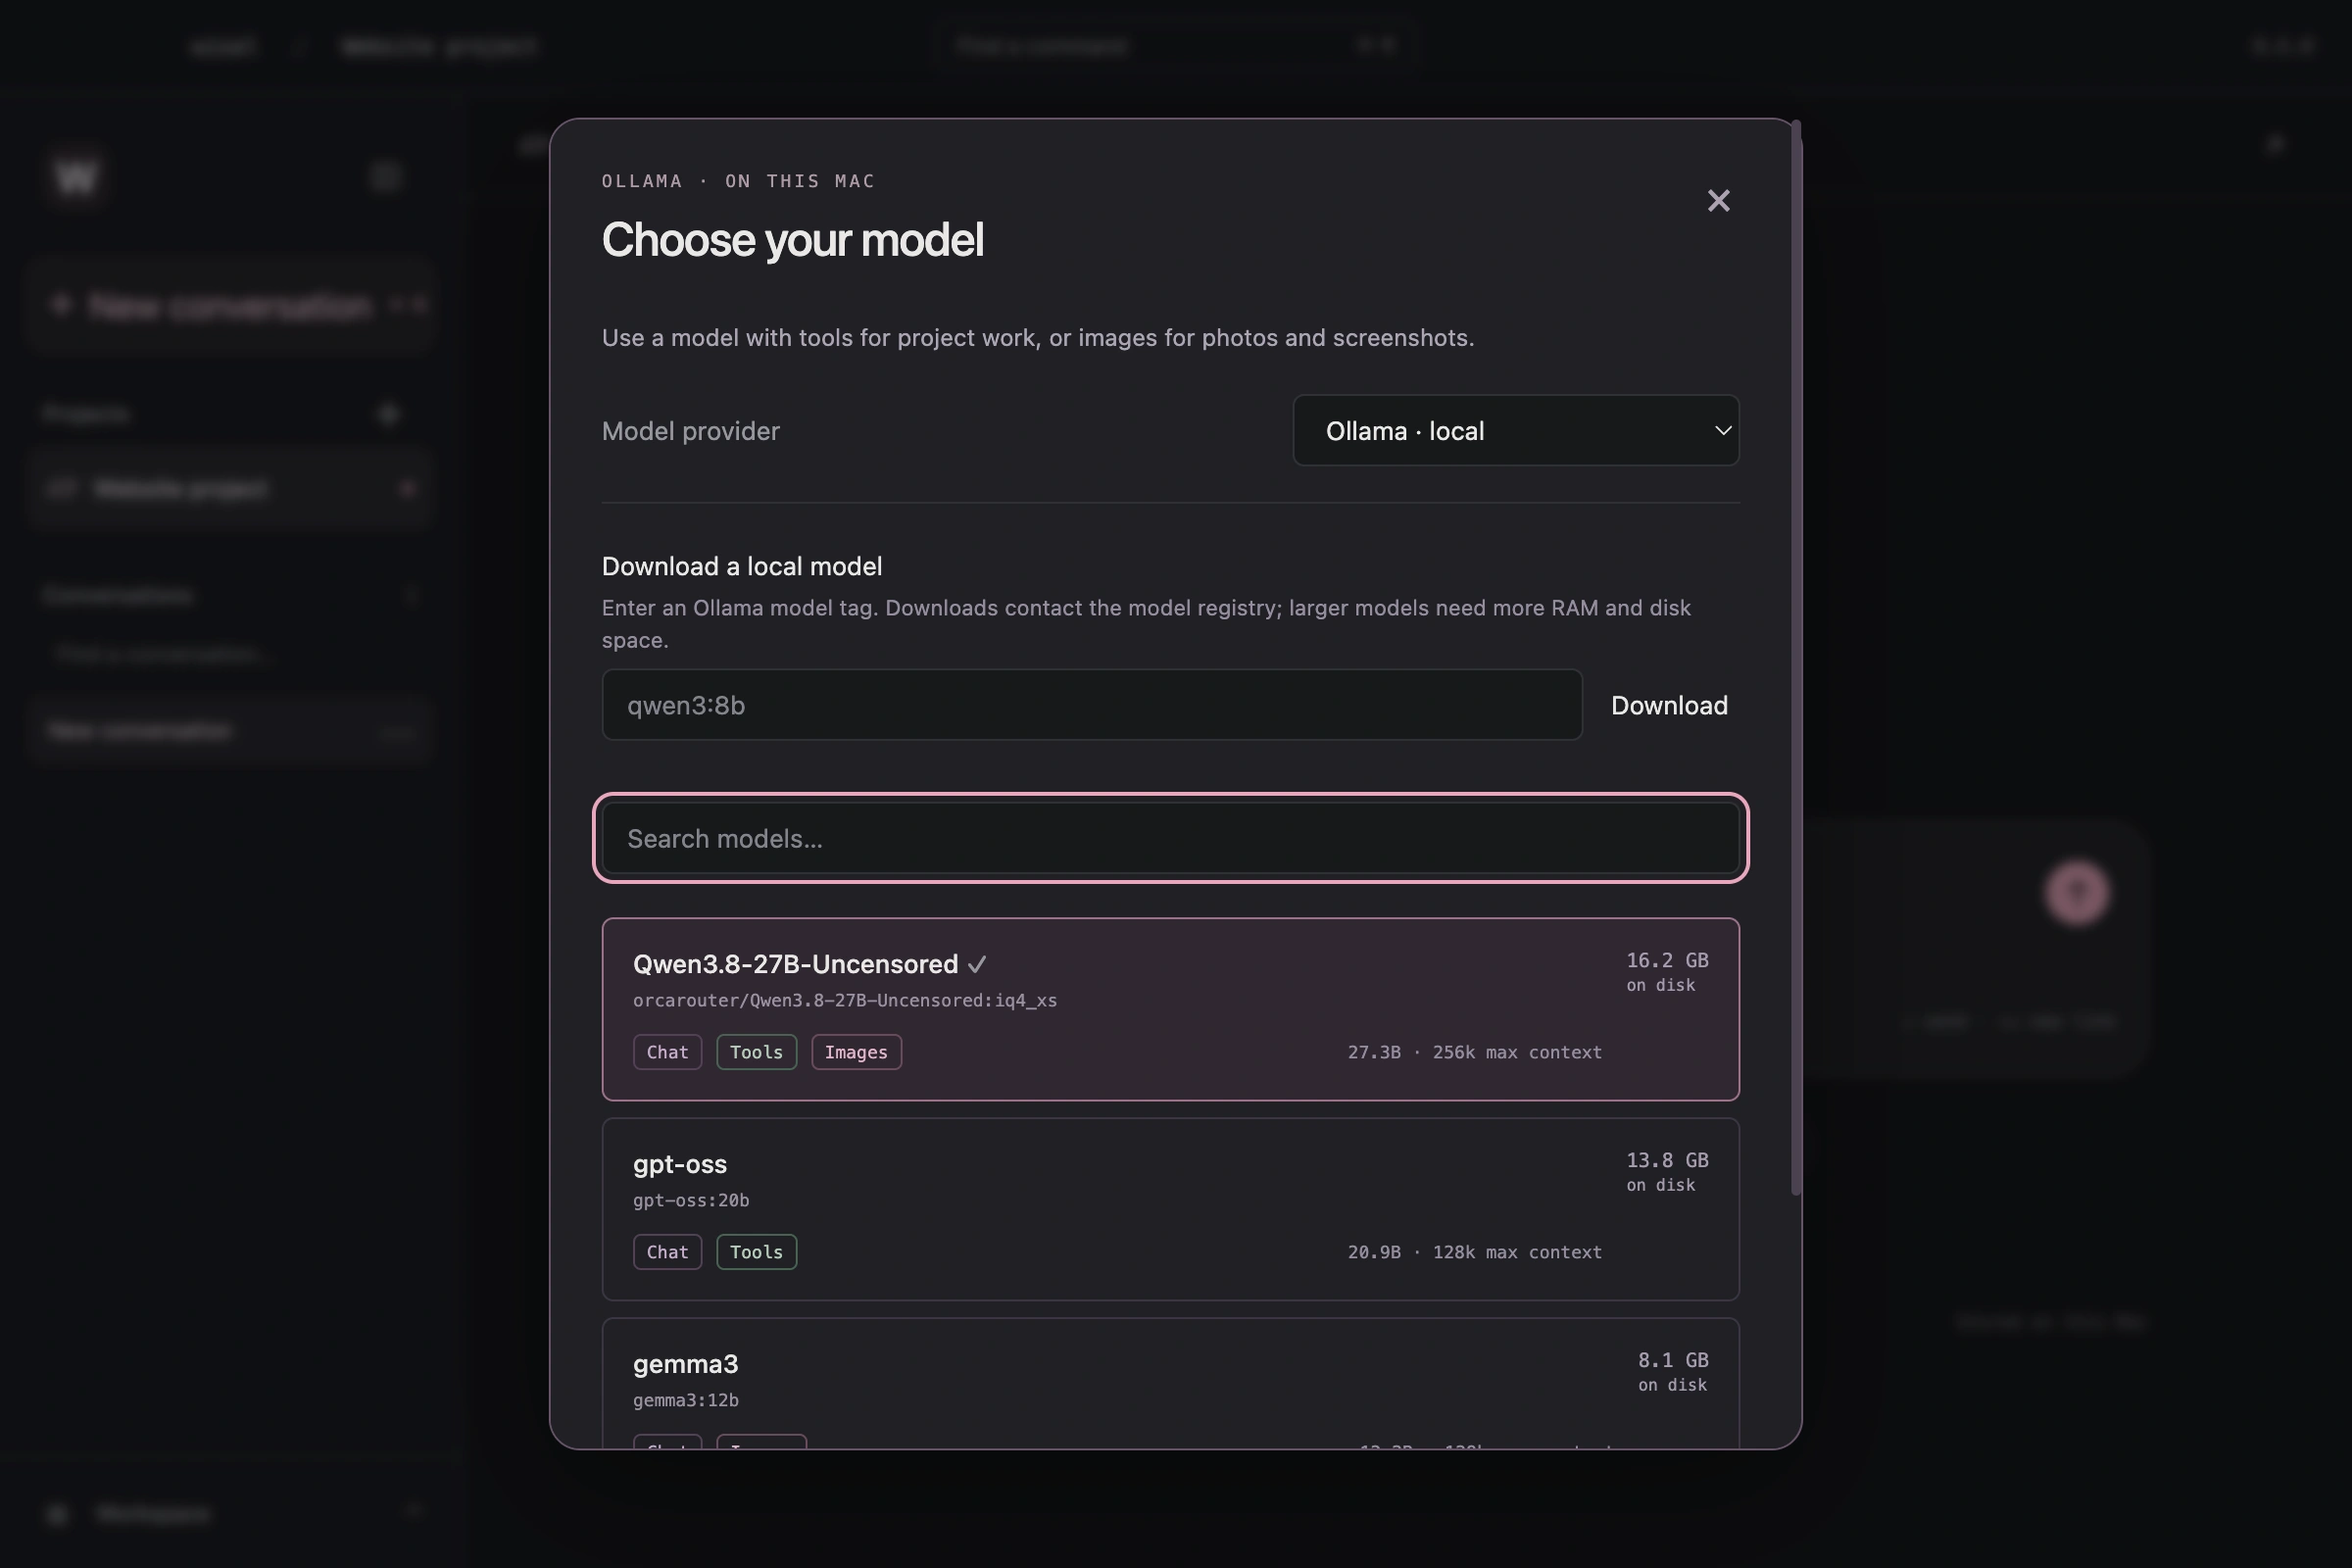
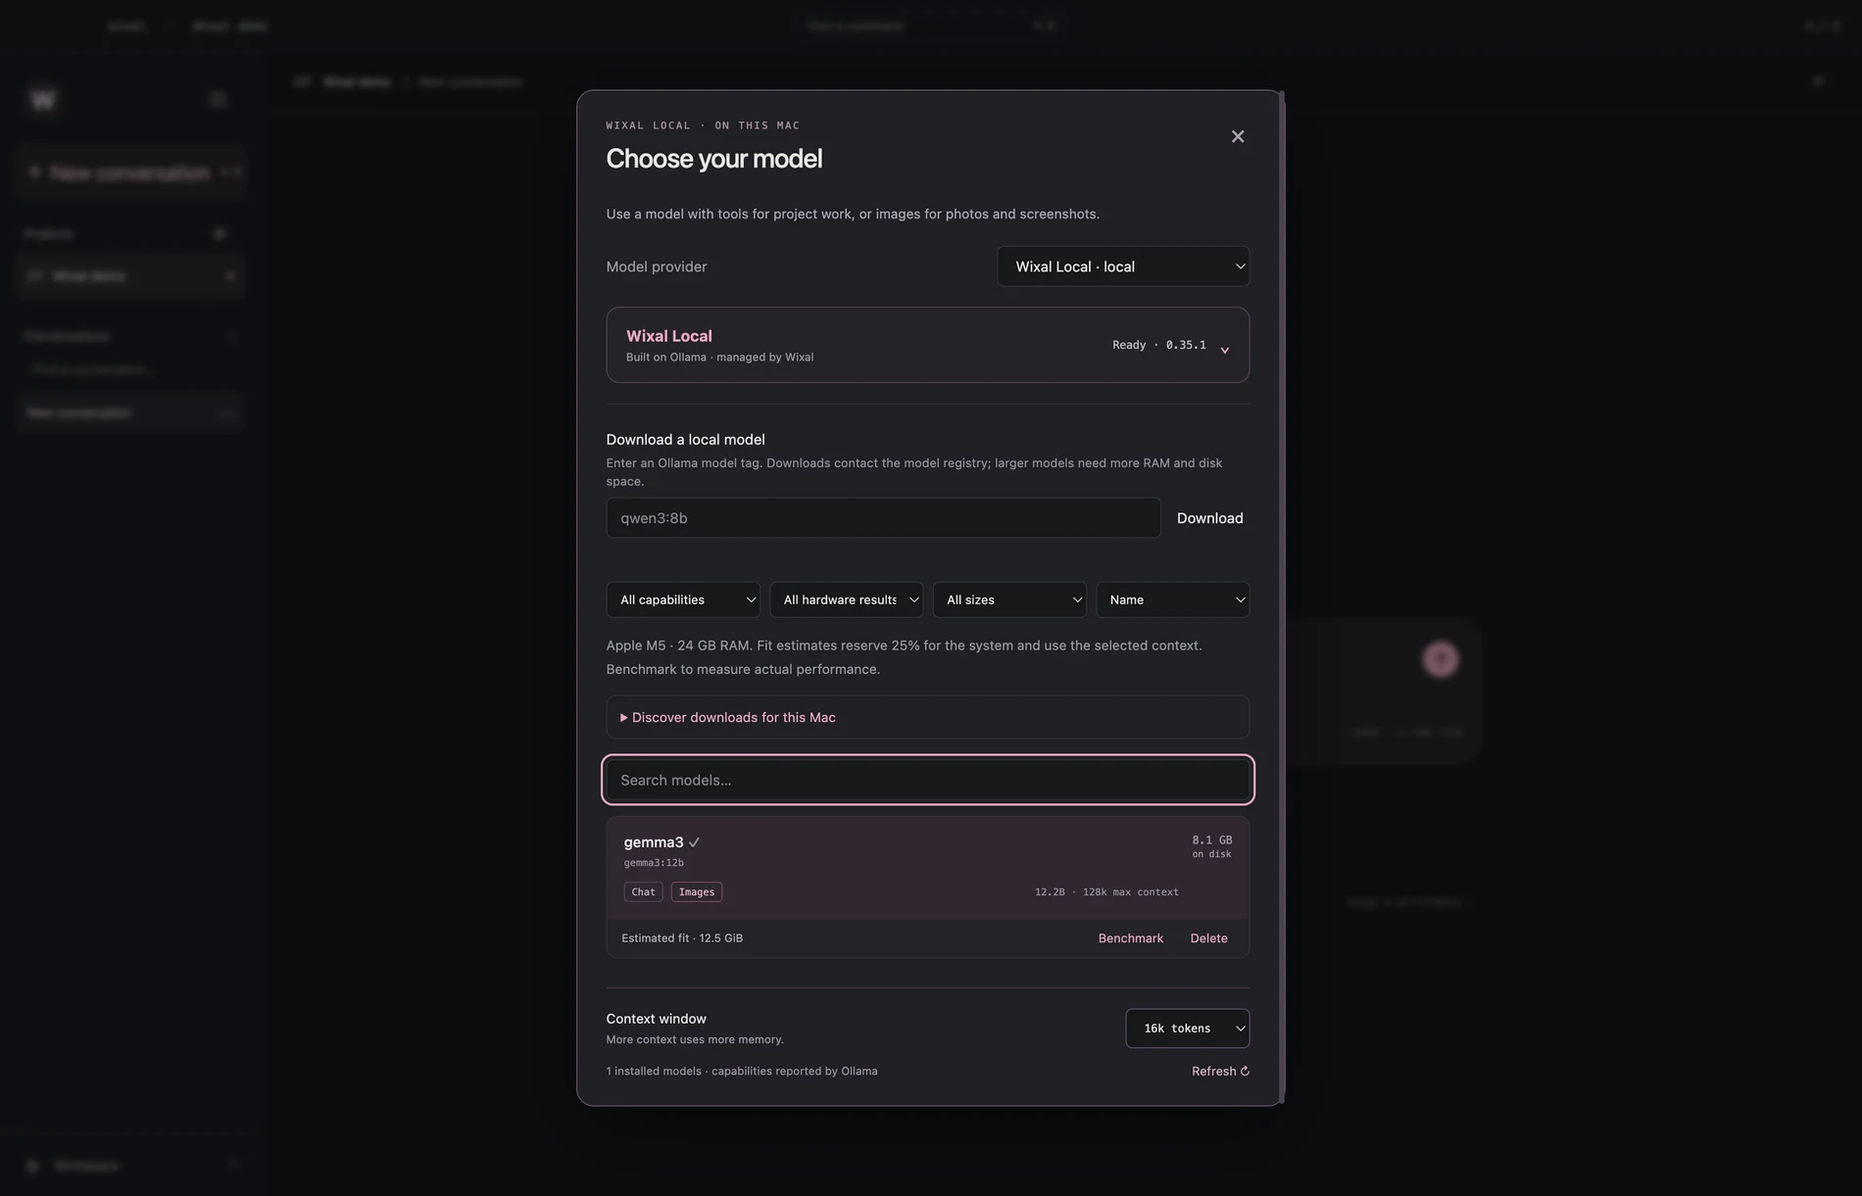
Update Wixal website for 0.7.0 local engine and model benchmarks

diff --git a/website/README.md b/website/README.md
@@ -38,11 +38,11 @@ GitHub Pages must use GitHub Actions as its build source. The published URL is h
 
 ## Content and assets
 
-`scripts/build.mjs` contains the shared templates and page content. `src/styles.css` defines the responsive design system; `src/site.js` handles navigation, screenshot tabs, and appearance. Fresh Wixal 0.6.0 captures from a disposable sample project were saved as WebP, and the existing folded W mark is used in the header and favicon.
+`scripts/build.mjs` contains the shared templates and page content. `src/styles.css` defines the responsive design system; `src/site.js` handles navigation, screenshot tabs, and appearance. Wixal 0.7.0 workspace, model manager, tool kit and performance captures are saved as WebP. The unchanged files, memory, terminal and connections previews retain the 0.6.0 captures and their actual version captions, and the existing folded W mark is used in the header and favicon.
 
 The Cursor homepage and product page informed the neutral palette, quiet navigation, typography, whitespace, product previews, and download buttons. Wixal uses its own content and assets. No Cursor fonts, logo, screenshots, customer endorsements, or product claims are shipped.
 
-Download links target the verified v0.6.0 release. Update the release version and copy in `scripts/build.mjs` when shipping a new release. Provider features follow the current published Wixal docs. The companion illustration is labelled as an illustration, not a screenshot. All site pages and download links work without JavaScript. Mobile navigation, screenshot switching, and appearance controls use JavaScript.
+Download links target the verified v0.7.0 release. Update the release version and copy in `scripts/build.mjs` when shipping a new release. Provider features follow the current published Wixal docs. The companion illustration is labelled as an illustration, not a screenshot. All site pages and download links work without JavaScript. Mobile navigation, screenshot switching, and appearance controls use JavaScript.
 
 Design concepts in `design/` were created with the built-in image generation tool. They are development references and are not part of the published site. Their brief was to retain the Cursor product page's #f7f7f4 / #26251e palette, understated regular grotesk type, open spacing, existing Wixal folded W branding, four source-grounded product areas, and the download/footer continuation. Actual Wixal screenshots intentionally replace generated app mockups. See `design/verification.md` for comparison notes.
 
@@ -59,3 +59,5 @@ The capture script opens the actual desktop app using temporary project and app 
 The build reads intrinsic WebP dimensions directly and uses them in each image's HTML. Preview frames reserve the same proportions before lazy loading, keeping section links stable. The check validates image attributes against their source dimensions. Header and footer theme controls share a saved preference, which is applied before the stylesheet loads to avoid a flash of the opposite theme.
 
 Styles, scripts, and screenshots use content-derived asset versions so browsers fetch updated files after a deployment.
+
+The 0.7.0 update uses the actual release app captures in `docs/screenshots`, including reported usage and a completed real benchmark. The local engine, tool defaults, model manager and macOS minimum match this release.

diff --git a/website/design/verification.md b/website/design/verification.md
@@ -54,3 +54,11 @@ Follow-up local browser verification:
 - ArrowRight switches models to terminal and End selects memory. The viewer opens the selected screenshot; Escape closes it and restores focus to its trigger.
 - A 320px narrow-width pass has no horizontal page overflow; the header download shortcut is omitted at that width, with the main download action available in the hero.
 - npm run build, npm run check, and git diff --check pass. The check verifies 182 local links and validates each screenshot's width/height attributes against its WebP data.
+
+## 0.7.0 release update
+
+Downloads now target the published v0.7.0 assets and require macOS 14+. The model page explains the bundled Wixal Local engine, separate model library, imports, downloads, hardware filters and actual generation benchmarks. Ollama attribution remains visible. Usage and runtime guides are linked. The tool copy describes all 15 enabled built-ins and explicit @ selection.
+
+New workspace, model-manager, toolkit and usage captures come from the actual 0.7.0 release workflow. Usage counts and Gemma 3 12B performance shown are reported by a real model run on this Mac. Unchanged files, memory, terminal and connections focus captures retain their original 0.6.0 version captions.
+
+The updated site builds and validates 183 local links and actual WebP dimensions. Headless Chromium checks cover all five pages at widths 1280, 390 and 320: no horizontal page overflow, no broken images and correct visible image proportions. The new model page was rendered and visually inspected. Download links select v0.7.0 and the minimum version reads macOS 14+. Browser page errors were absent.
